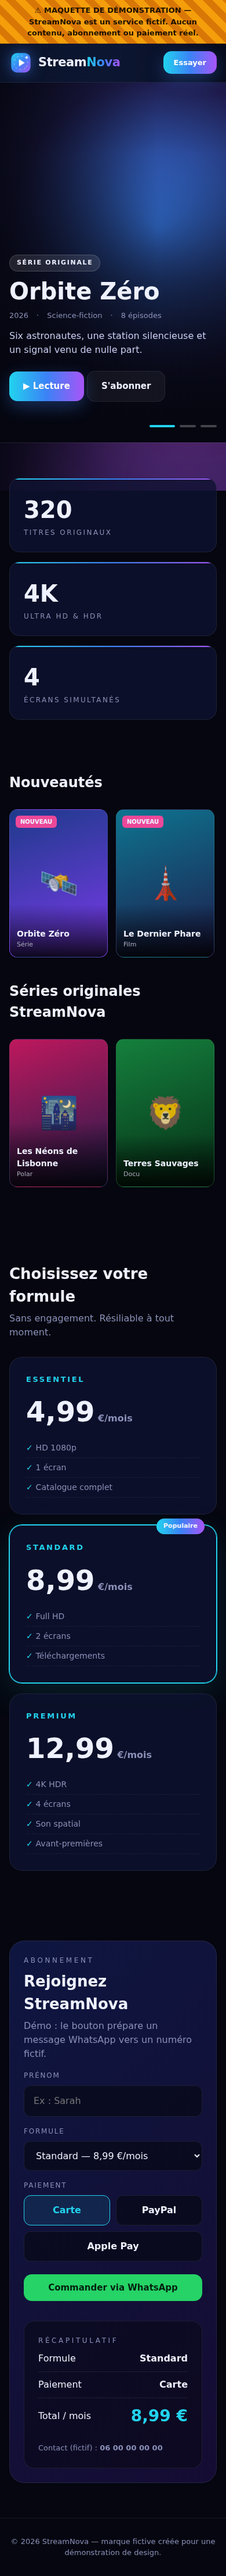
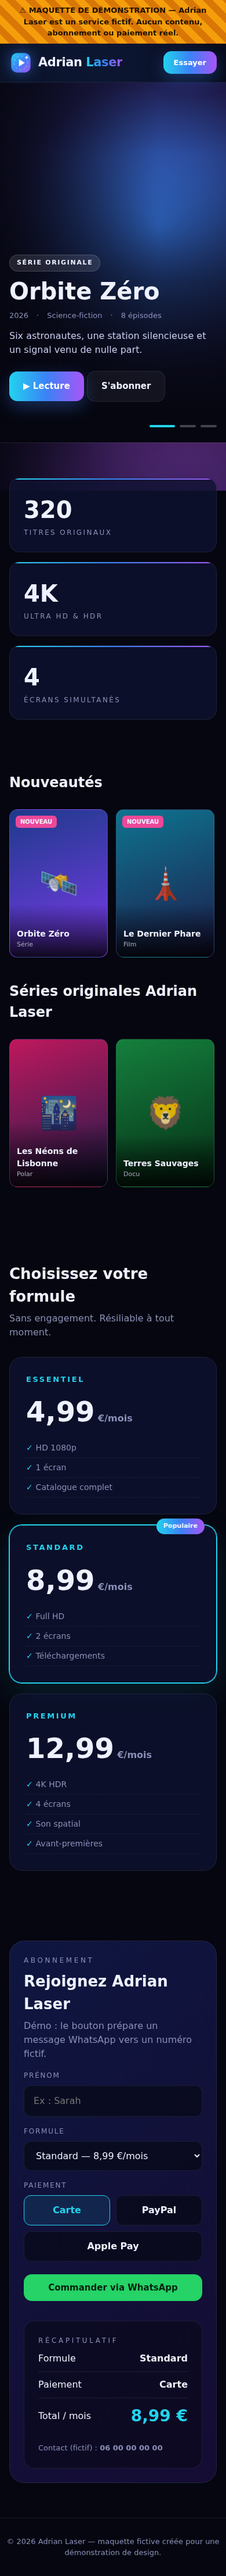
Rename demo platform to Adrian Laser
Claude-Session: https://claude.ai/code/session_01DEdCqQpZJhvjZt6hZpQdjP

Changed region(s): [[0.1231, 0.0, 0.8615, 0.0311], [0.4923, 0.7475, 0.5846, 0.7786]]

diff --git a/demo/index.html b/demo/index.html
@@ -3,7 +3,7 @@
 <head>
 <meta charset="utf-8">
 <meta name="viewport" content="width=device-width, initial-scale=1">
-<title>StreamNova — Démo</title>
+<title>Adrian Laser — Démo</title>
 <meta name="description" content="Maquette fictive d'une plateforme de streaming. Démonstration de design uniquement.">
 <link href="https://fonts.googleapis.com/css2?family=Inter:wght@400;500;700;900&display=swap" rel="stylesheet">
 <style>
@@ -124,12 +124,12 @@
 </style>
 </head>
 <body>
-<div class="demo">⚠ MAQUETTE DE DÉMONSTRATION — StreamNova est un service fictif. Aucun contenu, abonnement ou paiement réel.</div>
+<div class="demo">⚠ MAQUETTE DE DÉMONSTRATION — Adrian Laser est un service fictif. Aucun contenu, abonnement ou paiement réel.</div>
 <div class="bg"><div class="blob b1"></div><div class="blob b2"></div><div class="blob b3"></div></div>
 
 <header>
   <div class="wrap">
-    <a href="#" class="logo" aria-label="StreamNova">
+    <a href="#" class="logo" aria-label="Adrian Laser">
       <svg viewBox="0 0 48 48" aria-hidden="true">
         <defs><linearGradient id="lg" x1="0" y1="0" x2="1" y2="1"><stop offset="0" stop-color="#22d3ee"/><stop offset=".5" stop-color="#3b82f6"/><stop offset="1" stop-color="#a855f7"/></linearGradient></defs>
         <rect x="4" y="4" width="40" height="40" rx="12" fill="url(#lg)"/>
@@ -137,7 +137,7 @@
         <path d="M20 16.5v15l12-7.5z" fill="#fff"/>
         <path d="M36 9l1.2 2.8L40 13l-2.8 1.2L36 17l-1.2-2.8L32 13l2.8-1.2z" fill="#fff"/>
       </svg>
-      <b>Stream<span>Nova</span></b></a>
+      <b>Adrian <span>Laser</span></b></a>
     <nav><a href="#catalogue">Catalogue</a><a href="#formules">Formules</a><a href="#abonnement">S'abonner</a></nav>
     <a href="#formules" class="btn btn-main" style="padding:10px 18px;font-size:13px">Essayer</a>
   </div>
@@ -166,7 +166,7 @@
     <div class="order rv">
       <div>
         <p class="eyebrow">Abonnement</p>
-        <h2 style="margin-top:8px">Rejoignez StreamNova</h2>
+        <h2 style="margin-top:8px">Rejoignez Adrian Laser</h2>
         <p class="muted">Démo : le bouton prépare un message WhatsApp vers un numéro fictif.</p>
         <form id="form">
           <label for="name">Prénom</label>
@@ -193,7 +193,7 @@
   </section>
 </main>
 
-<footer>© <span id="y"></span> StreamNova — marque fictive créée pour une démonstration de design.</footer>
+<footer>© <span id="y"></span> Adrian Laser — maquette fictive créée pour une démonstration de design.</footer>
 <div class="toast" id="toast"></div>
 
 <script>
@@ -214,7 +214,7 @@ const FEATURED = [
 ];
 const ROWS = [
   { name:"Nouveautés", items:[["Orbite Zéro","Série","🛰","#1e3a8a,#7c3aed",1],["Le Dernier Phare","Film","🗼","#0e7490,#1e1b4b",1],["Pixel & Moi","Animation","👾","#db2777,#7c3aed"],["Brume","Thriller","🌫","#334155,#0f172a"],["Cuisine Cosmique","Émission","🍜","#ea580c,#7c2d12",1],["Mirage","Film","🏜","#d97706,#78350f"]] },
-  { name:"Séries originales StreamNova", items:[["Les Néons de Lisbonne","Polar","🌃","#be185d,#1e1b4b"],["Terres Sauvages","Docu","🦁","#15803d,#052e16"],["Code Rouge","Action","🚨","#b91c1c,#1c1917"],["L'Atelier","Drame","🎨","#7c3aed,#1e1b4b"],["Haute Mer","Aventure","🌊","#0369a1,#082f49"],["Kilomètre 9","Comédie","🚌","#ca8a04,#422006"]] }
+  { name:"Séries originales Adrian Laser", items:[["Les Néons de Lisbonne","Polar","🌃","#be185d,#1e1b4b"],["Terres Sauvages","Docu","🦁","#15803d,#052e16"],["Code Rouge","Action","🚨","#b91c1c,#1c1917"],["L'Atelier","Drame","🎨","#7c3aed,#1e1b4b"],["Haute Mer","Aventure","🌊","#0369a1,#082f49"],["Kilomètre 9","Comédie","🚌","#ca8a04,#422006"]] }
 ];
 
 const $ = s => document.querySelector(s);
@@ -266,7 +266,7 @@ document.querySelectorAll(".plan").forEach(el=>el.onclick=()=>{selPlan=CONFIG.pl
 $("#plan").onchange=e=>{selPlan=CONFIG.plans.find(p=>p.id===e.target.value);render();};
 $("#pay").onclick=e=>{const b=e.target.closest("button");if(!b)return;document.querySelectorAll("#pay button").forEach(x=>x.classList.toggle("on",x===b));selPay=b.dataset.v;render();};
 $("#form").onsubmit=e=>{e.preventDefault();
-  window.open(wa(`[DÉMO StreamNova]\nPrénom : ${$("#name").value.trim()}\nFormule : ${selPlan.name} (${selPlan.price} €/mois)\nPaiement : ${selPay}`),"_blank");};
+  window.open(wa(`[DÉMO Adrian Laser]\nPrénom : ${$("#name").value.trim()}\nFormule : ${selPlan.name} (${selPlan.price} €/mois)\nPaiement : ${selPay}`),"_blank");};
 $("#phone").textContent=CONFIG.phoneDisplay; $("#y").textContent=new Date().getFullYear(); render();
 
 // Animations au scroll + compteurs
